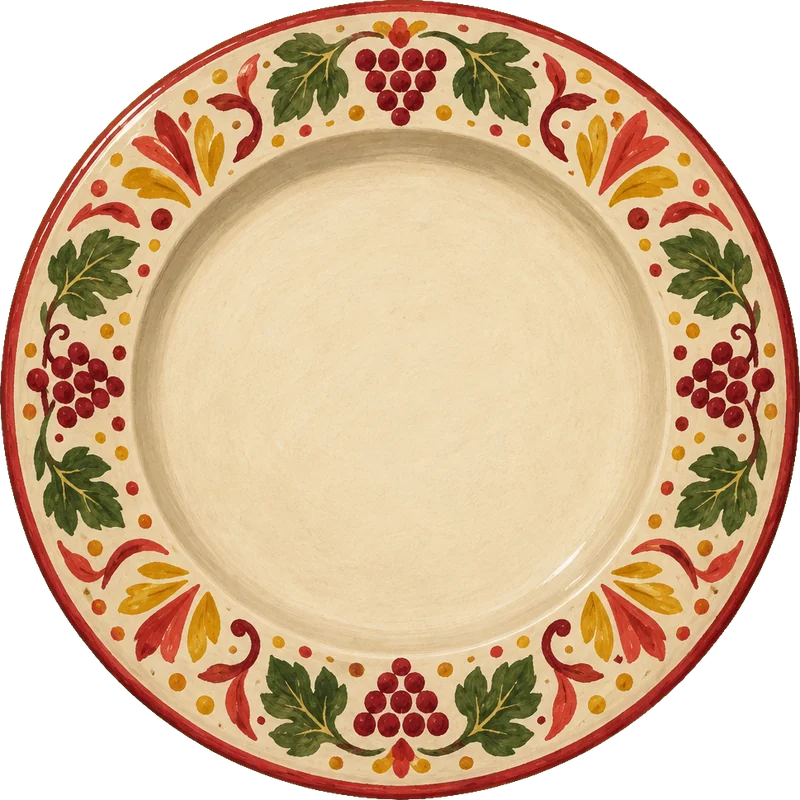
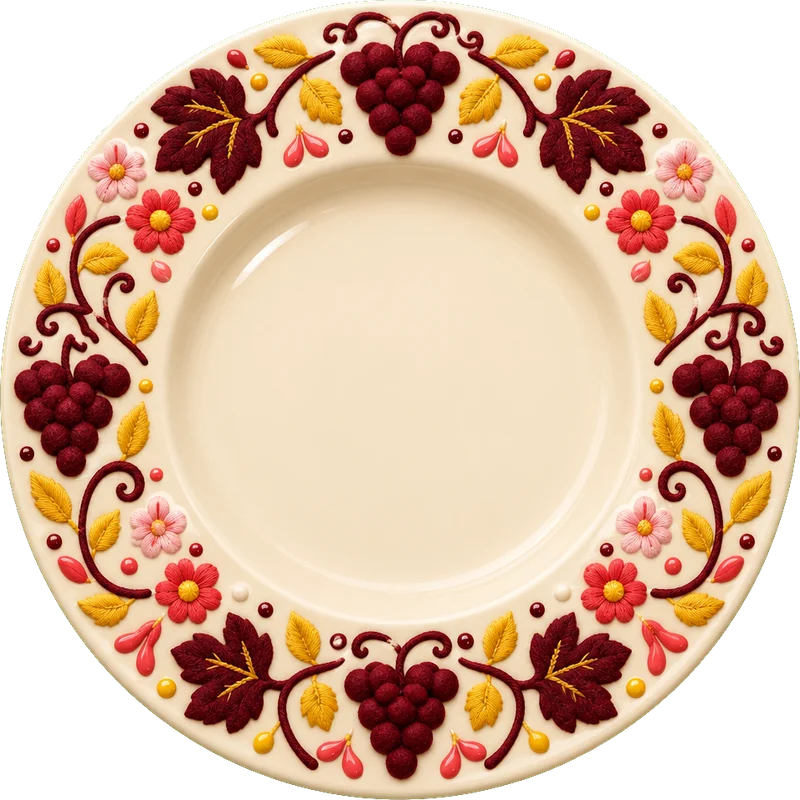
Wheel v6.1 pilot: embroidered-ornament plate in brand colours, 3D food stickers on slices
- plate.webp regenerated: Georgian vine/grape ornament as puffy embroidery (wine/coral/mustard/blush on cream)
- 9 Georgian dish stickers cut from one AI sheet (public/stickers); lib/stickers.ts lists them, others keep icons
- Wheel box ratio and hub position computed from the viewBox (no hand-synced CSS numbers)

Claude-Session: https://claude.ai/code/session_019jQ4HNC6F1M6arDso6kQeq

diff --git a/components/Wheel.tsx b/components/Wheel.tsx
@@ -3,7 +3,8 @@
  * Application: რა ვჭამოთ? (WTI)
  * Author:      Sandro Germanishvili
  * Date:        2026-11-22
- * Version:     v6.0 — painted plate + silver fork (raster art), glazed/painterly slices,
+ * Version:     v6.1 — embroidered-ornament plate, 3D food stickers on slices (lib/stickers.ts),
+ *              hub position/aspect computed here; v6.0 — painted plate + silver fork (raster art), glazed/painterly slices,
  *              flick-to-spin with a pointer (mouse, touch, pen); was v5.0 — vector plate
  * Description: Presentational wheel. It does NOT choose anything: it gets the dishes and a
  *              target rotation and animates there with a CSS transition; onLanded fires when
@@ -25,6 +26,7 @@
 import { useId, useRef, useState, type PointerEvent } from "react";
 import type { Dish } from "@/lib/catalog.ts";
 import { toMtavruli } from "@/lib/mtavruli.ts";
+import { stickerSrc } from "@/lib/stickers.ts";
 
 const SLICE_COLORS = ["#3B0D18", "#FFC93C", "#F8B4C0", "#FFF8EC"];
 const INK = ["#FFF1DC", "#3B0D18", "#3B0D18", "#3B0D18"];
@@ -32,7 +34,7 @@ const INK = ["#FFF1DC", "#3B0D18", "#3B0D18", "#3B0D18"];
 const colorOf = (i: number, n: number) => (i === n - 1 && n % SLICE_COLORS.length === 1 ? 2 : i % SLICE_COLORS.length);
 
 const PLATE = 200;     // painted plate radius (the image is cropped to the plate's circle)
-const R = 134;         // slice radius = the plate's inner well (rim ornament stays visible)
+const R = 116;         // slice radius = the plate's inner well (embroidered rim stays visible)
 const FORK_W = 21;     // fork.webp is 190×1425 → keep that ratio
 const FORK_H = FORK_W * (1425 / 190);
 const FORK_TIP = -R + 16;                // tines end inside the top slice
@@ -40,6 +42,8 @@ const TOP = Math.floor(FORK_TIP - FORK_H) - 2;
 export const VIEWBOX = `-200 ${TOP} 400 ${200 - TOP}`;
 /** Where the plate centre sits inside the box, as a fraction of its height (CSS uses it for the hub). */
 export const CENTER_Y = -TOP / (200 - TOP);
+/** The box follows the viewBox, so CSS never has to know these numbers. */
+const BOX = { aspectRatio: `400 / ${200 - TOP}` };
 
 /** Release speed (degrees per millisecond) above which a drag becomes a spin. */
 export const FLING_MIN = 0.35;
@@ -57,11 +61,12 @@ function slicePath(i: number, n: number): string {
  *  flip: drawn right→left with the baseline nearer the rim, so it reads upright at the bottom. */
 function labelArc(n: number, flip: boolean): string {
   const h = (Math.PI / n) * 0.92;
-  const r = flip ? R - 9 : R - 18;
+  const r = flip ? R - 4 : R - 13;
   const x = r * Math.sin(h), y = -r * Math.cos(h);
   return flip ? `M${x} ${y} A${r} ${r} 0 0 0 ${-x} ${y}` : `M${-x} ${y} A${r} ${r} 0 0 1 ${x} ${y}`;
 }
-const ICON_R = R - 50;   // icon disc centre, measured from the plate centre
+const ICON_R = R - 44;   // icon/sticker centre, measured from the plate centre
+const STICKER = 52;      // sticker box (the food fills most of it)
 
 /** Names longer than this are not printed on the wheel — the icon carries the slice. */
 export const LABEL_MAX = 8;
@@ -124,7 +129,7 @@ export function Wheel({ dishes, rotation, spinning, spinMs, winnerIndex, landedO
   const hubLabel = spinning ? "…" : dragging ? "გაუშვი!" : landedOnce ? "კიდევ!" : "დაატრიალე";
 
   return (
-    <div className={dragging ? "wheel wheel--dragging" : "wheel"}>
+    <div className={dragging ? "wheel wheel--dragging" : "wheel"} style={BOX}>
       <svg
         ref={svgRef}
         viewBox={VIEWBOX}
@@ -156,8 +161,12 @@ export function Wheel({ dishes, rotation, spinning, spinMs, winnerIndex, landedO
             return (
               <g key={d.slug} transform={`rotate(${mid})`}>
                 <g transform={flip ? `rotate(180 0 ${-ICON_R})` : undefined}>
-                  <circle cy={-ICON_R} r={22} className="wheel__disc-icon" />
-                  <image href={`/icons/${d.icon}.svg`} x={-16} y={-ICON_R - 16} width={32} height={32} />
+                  {stickerSrc(d.slug)
+                    ? <image className="wheel__sticker" href={stickerSrc(d.slug)!} x={-STICKER / 2} y={-ICON_R - STICKER / 2} width={STICKER} height={STICKER} />
+                    : <>
+                        <circle cy={-ICON_R} r={20} className="wheel__disc-icon" />
+                        <image href={`/icons/${d.icon}.svg`} x={-14} y={-ICON_R - 14} width={28} height={28} />
+                      </>}
                 </g>
                 {d.name.length <= LABEL_MAX && (
                   <>
@@ -177,7 +186,7 @@ export function Wheel({ dishes, rotation, spinning, spinMs, winnerIndex, landedO
         <image href="/illustrations/hero/grain.webp" x={-R} y={-R} width={R * 2} height={R * 2} clipPath="url(#wheel-well)" preserveAspectRatio="none" pointerEvents="none" opacity={0.4} />
         <Fork />
       </svg>
-      <button className="wheel__hub" onClick={onSpin} disabled={spinning} aria-label="დაატრიალე ბორბალი">
+      <button className="wheel__hub" style={{ top: `${CENTER_Y * 100}%` }} onClick={onSpin} disabled={spinning} aria-label="დაატრიალე ბორბალი">
         <span aria-hidden="true">{toMtavruli(hubLabel)}</span>
       </button>
     </div>
@@ -215,7 +224,7 @@ function Fork() {
 /** Static shell shown while the interactive wheel loads: same box, plate and fork. */
 export function WheelShell() {
   return (
-    <div className="wheel wheel--skeleton" aria-label="იტვირთება">
+    <div className="wheel wheel--skeleton" aria-label="იტვირთება" style={BOX}>
       <svg viewBox={VIEWBOX} aria-hidden="true">
         <Plate />
         <Fork />

diff --git a/lib/stickers.ts b/lib/stickers.ts
@@ -1,0 +1,16 @@
+/**
+ * File:        lib/stickers.ts
+ * Application: რა ვჭამოთ? (WTI)
+ * Author:      Sandro Germanishvili
+ * Date:        2026-11-22
+ * Version:     v1.0 — pilot set (9 Georgian dishes)
+ * Description: Which dish types have an illustrated food sticker in public/stickers/<slug>.webp.
+ *              The wheel shows the sticker when there is one and falls back to the flat icon
+ *              otherwise. One list, so adding a sticker = drop the file + add the slug here.
+ */
+export const STICKERS: ReadonlySet<string> = new Set([
+  "khinkali", "khachapuri", "mtsvadi", "georgian-sweets", "badrijani",
+  "lobiani", "pkhali", "chakapuli", "shawarma",
+]);
+
+export const stickerSrc = (slug: string): string | null => (STICKERS.has(slug) ? `/stickers/${slug}.webp` : null);

diff --git a/app/globals.css b/app/globals.css
@@ -1429,3 +1429,7 @@ body { font-family: var(--font); color: var(--wine); background: var(--cream); o
   .hero__stage { width: min(70vw, 34svh); }
   .hero__inner { gap: var(--s1); }
 }
+/* v6.1: stickers carry their own die-cut border; a small shadow lifts them off the slice */
+.wheel__sticker { filter: drop-shadow(0 2px 1.5px rgba(59, 13, 24, .35)); }
+.wheel__hub { width: 20%; font-size: 2.9cqw; }
+.wheel__label { font-size: 12.5px; }
